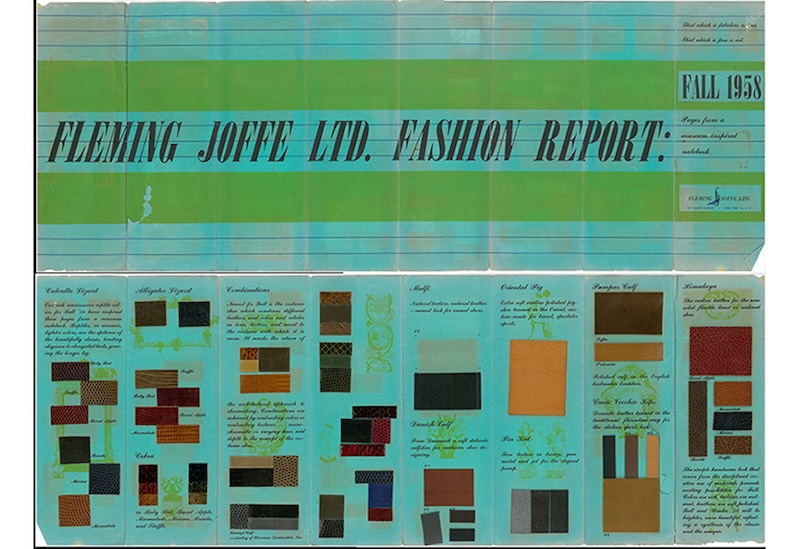
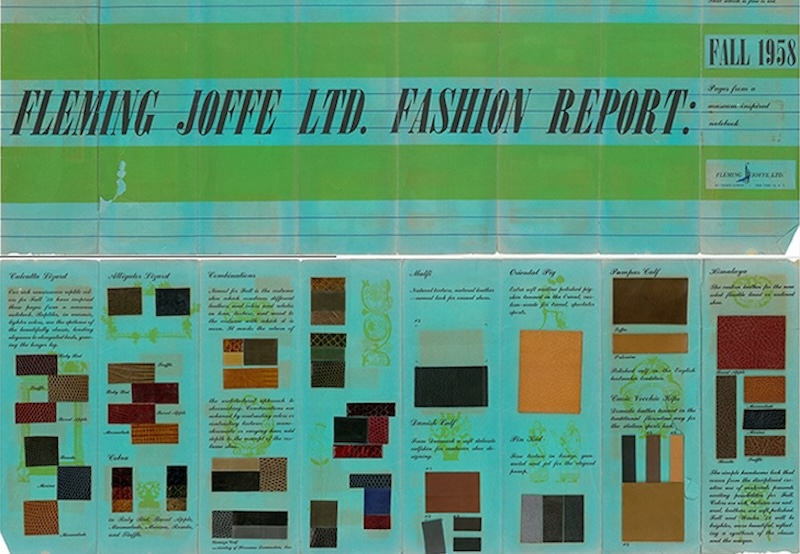
fixed image scrolls

diff --git a/v2.html b/v2.html
@@ -350,7 +350,7 @@
 
                 <div class="image-scroll">
                     <div class="carousel">
-                    <img src="images/1956-Fleming Joffe brochure lizard and snakeskins.jpg">
+                    <img src="images/Felming Joffe Snake Show.jpg">
                     <p class="carousel-img-caption">Image Caption.</p>
                     </div>
                     <div>
@@ -399,27 +399,27 @@
             <div class="image-scroll">
                 <div class="carousel">
                 <img src="images/1956-Fleming Joffe brochure lizard and snakeskins.jpg">
-                <p class="carousel-img-caption">Image Caption.</p>
+                <p class="carousel-img-caption-black">Image Caption.</p>
                 </div>
                 <div>
                 <img src="images/1958-Fleming Joffe Fashion Report.jpg">
-                <p class="carousel-img-caption">Image Caption.</p>
+                <p class="carousel-img-caption-black">Image Caption.</p>
                 </div>
                 <div>
                 <img src="images/1962-FlemingJoffe ad for genuine alligator.jpg">
-                <p class="carousel-img-caption">Image Caption.</p>
+                <p class="carousel-img-caption-black">Image Caption.</p>
                 </div>
                 <div>
                 <img src="images/1956-Fleming Joffe brochure lizard and snakeskins.jpg">
-                <p class="carousel-img-caption">Image Caption.</p>
+                <p class="carousel-img-caption-black">Image Caption.</p>
                 </div>
                 <div>
                 <img src="images/1958-Fleming Joffe Fashion Report.jpg">
-                <p class="carousel-img-caption">Image Caption.</p>
+                <p class="carousel-img-caption-black">Image Caption.</p>
                 </div>
                 <div>
                 <img src="images/1962-FlemingJoffe ad for genuine alligator.jpg">
-                <p class="carousel-img-caption">Image Caption.</p>
+                <p class="carousel-img-caption-black">Image Caption.</p>
                 
             </div>
             </div>
@@ -644,8 +644,8 @@ document.addEventListener('scroll', function() {
   centerMode: true,
   centerPadding: '0px',
   slidesToShow: 3,
-  prevArrow: '<img class="slick-prev" src="./images/icons/prev.svg" style="height:20px;">',
-  nextArrow: '<img class="slick-next" src="./images/icons/next.svg" style="height:20px">',
+  prevArrow: '<img class="slick-prev" src="./images/icons/prev-green.svg" style="height:20px;">',
+  nextArrow: '<img class="slick-next" src="./images/icons/next-green.svg" style="height:20px">',
 
   responsive: [
     {
@@ -673,8 +673,8 @@ $('.image-scroll-two').slick({
   centerMode: true,
   centerPadding: '0px',
   slidesToShow: 3,
-  prevArrow: '<img class="slick-prev" src="./images/icons/prev-brown.svg" style="height:20px;">',
-  nextArrow: '<img class="slick-next" src="./images/icons/next-brown.svg" style="height:20px">',
+  prevArrow: '<img class="slick-prev" src="./images/icons/prev-black.svg" style="height:20px;">',
+  nextArrow: '<img class="slick-next" src="./images/icons/next-black.svg" style="height:20px">',
 
   responsive: [
     {

diff --git a/css/overview.css b/css/overview.css
@@ -90,6 +90,12 @@ body{
     margin-top: 10px;
 }
 
+.carousel-img-caption-black{
+    color: #4D4726;
+    font-size: 12px;
+    margin-top: 10px;
+}
+
 .bodycopy-full-width{
     /* background-color: #edede8; */
     padding-top: 120px;
@@ -232,37 +238,39 @@ color: #4D4726;
 
 
 .image-scroll img{
-    width: 100%;
+    width: 21rem;
     padding-left: 10px;
 }
 
 .image-scroll-two img{
-    width: 100%;
+    width: 21rem;
     padding-left: 10px;
 }
 
 .image-scroll{
 margin-top: 50px;
-margin-left: 3vw;
+margin-left: 5%;
 width: 90%;
 margin-bottom: 150px;
 }ƒ
 
 .image-scroll-two{
     margin-top: 50px;
-    margin-left: 3vw;
-    width: 90%;
+    margin-left: 5%;
+    width: 90% !important;
     margin-bottom: 150px;
     }
 
 .slick-prev{
     height: 20px;
-    left: 100px !important;
+    left: -12rem !important;
+    z-index: 100;
 }
 
 .slick-next{
     height: 20px;
-    right: -550px !important;
+    right: -11rem !important;
+    z-index: 100;
 }
 
 
